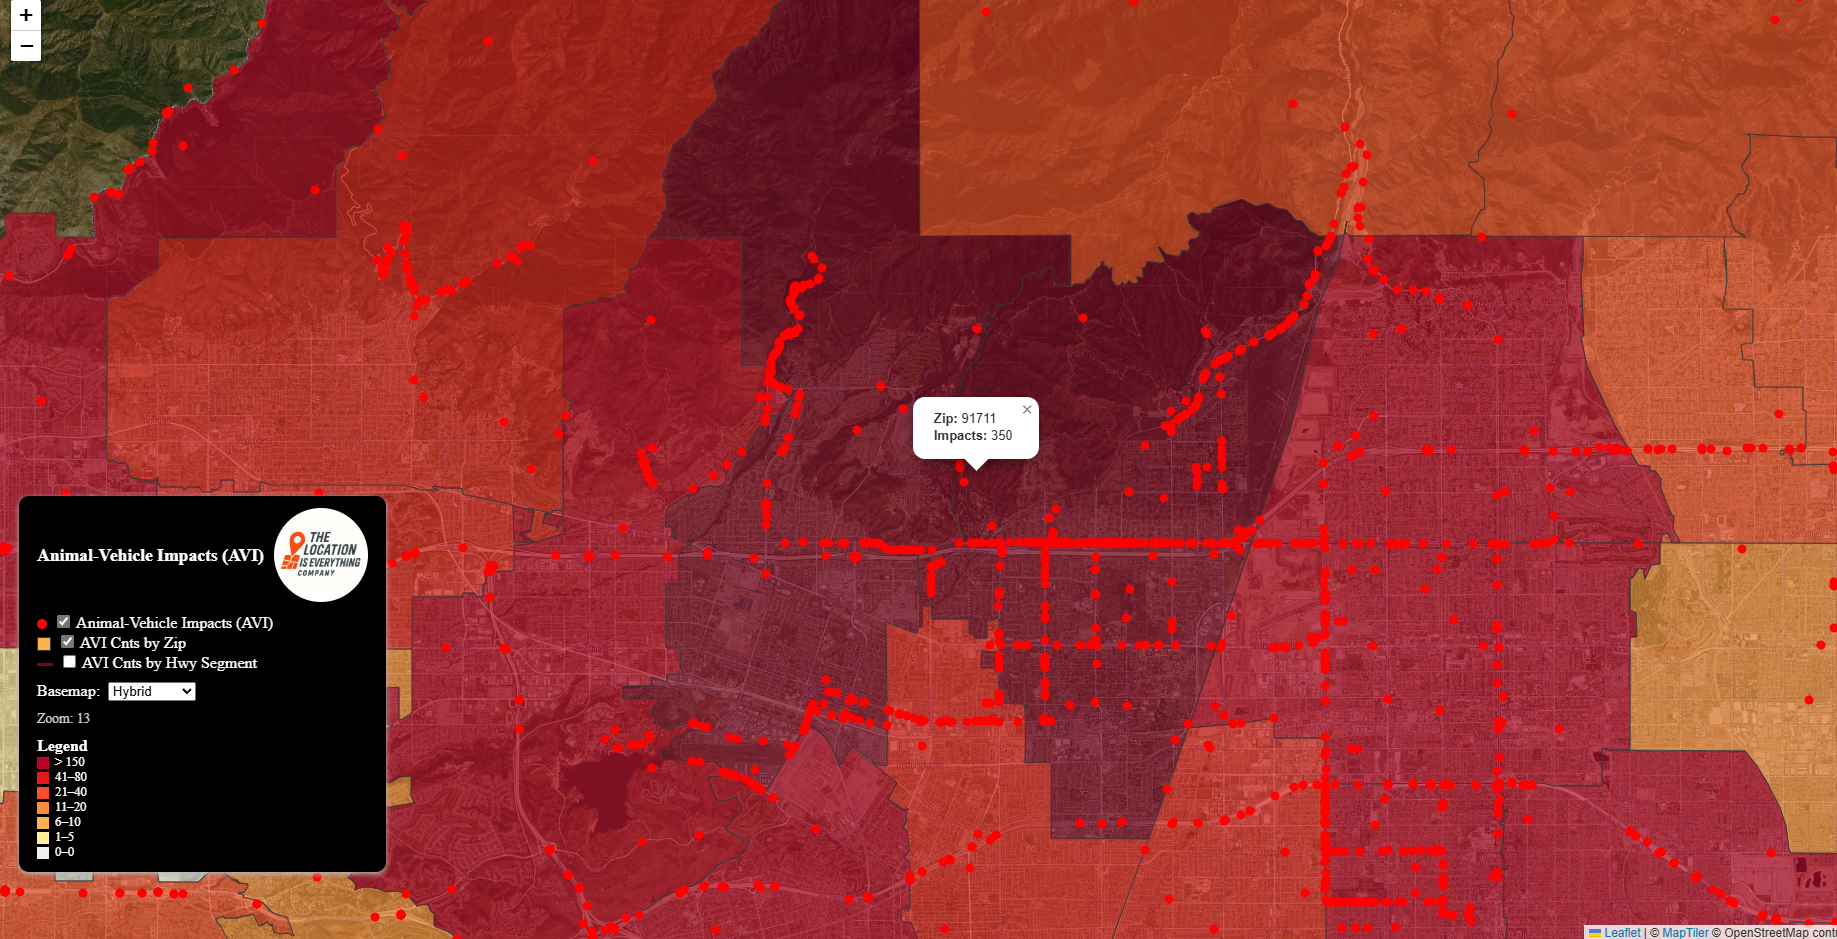
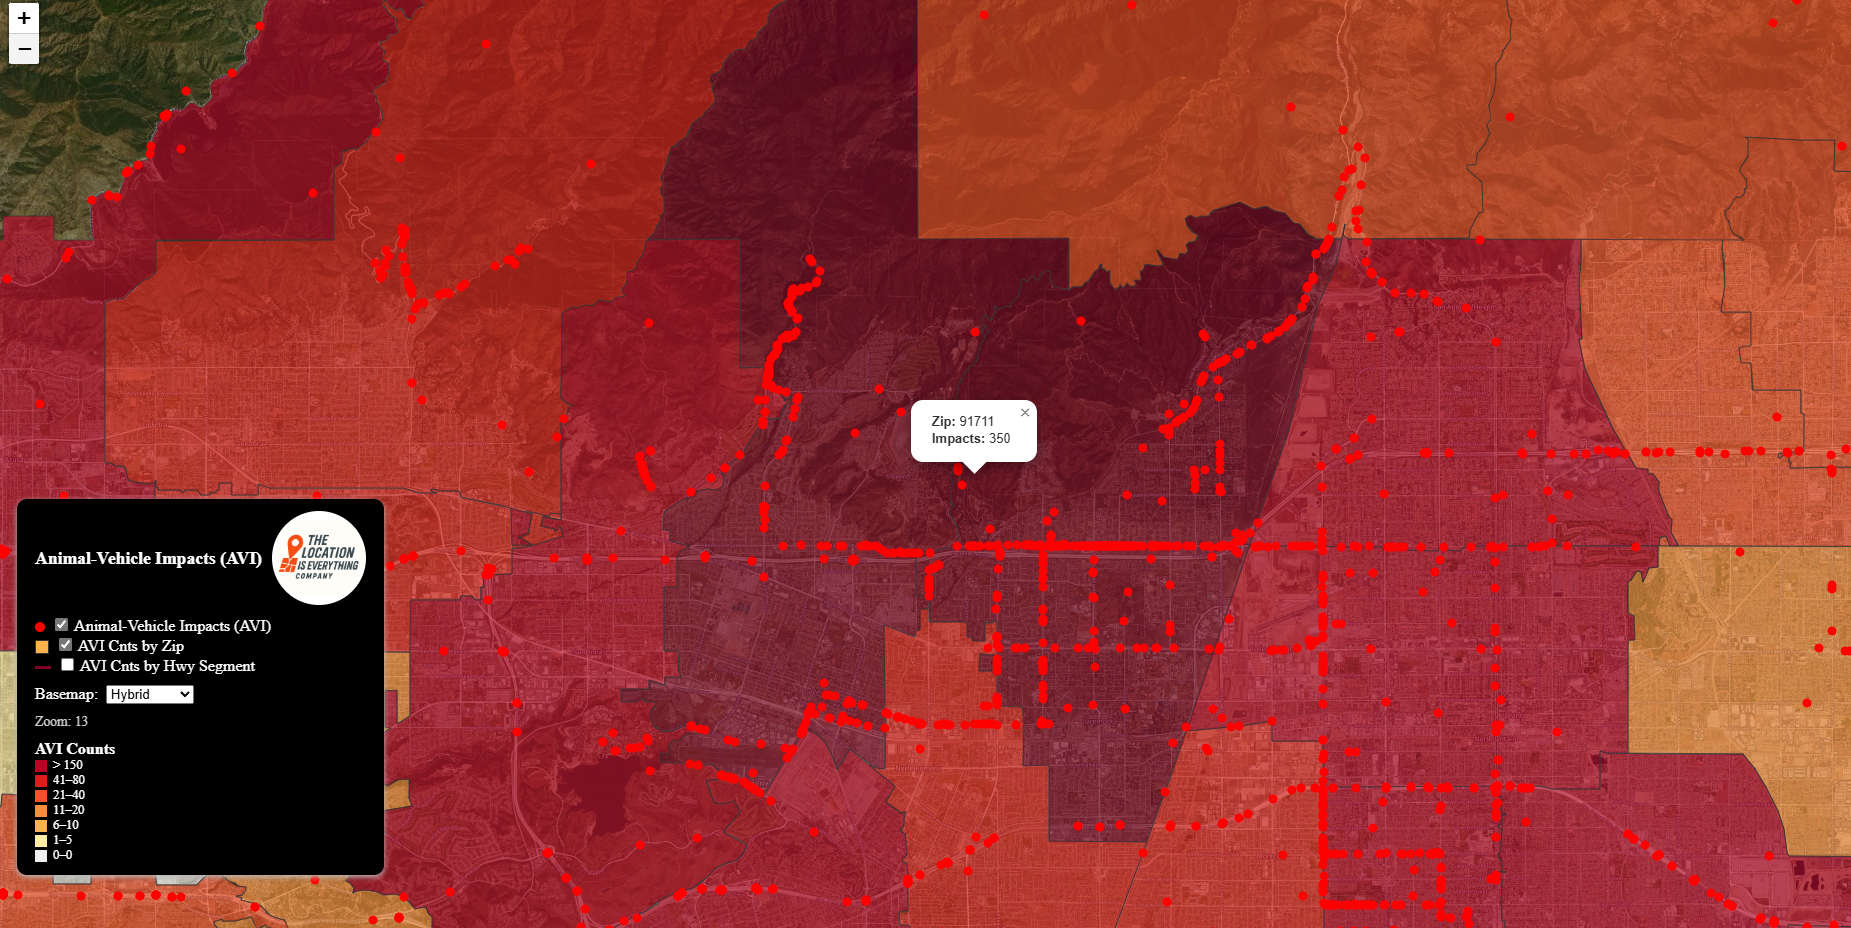
Add urban insights page

diff --git a/src/app/urban/page.tsx b/src/app/urban/page.tsx
@@ -1,4 +1,5 @@
 "use client";
+import Image from "next/image";
 import Link from "next/link";
 
 export default function UrbanInsightsPage() {
@@ -16,8 +17,10 @@ export default function UrbanInsightsPage() {
         Urban Insights Data Suite
       </h1>
       <p className="text-lg mb-8 text-center max-w-2xl">
-        Our Urban Insights Data Suite delivers actionable neighborhood-level intelligence for the largest US cities, built from 311 service calls and more. Stay tuned for our inital release of our Infrastructure Health Index for Neighborhoods!
+        Our Urban Insights Data Suite delivers actionable neighborhood-level intelligence for the largest US cities, built from 311 service calls and more. Stay tuned for our initial release of "Infrastructure Health Index for Neighborhoods"
       </p>
+      {/* You can add a sample image here if you have one, or a placeholder: */}
+     <img src="/logo.png" alt="Location Is Everything Logo" style={{ width: '250px', height: '250px', marginLeft: '10px', border: '2px solid white', borderRadius: '50%', backgroundColor: 'white', objectFit: 'contain' }} />
 
     </div>
   );

diff --git a/src/app/avi/page.tsx b/src/app/avi/page.tsx
@@ -17,13 +17,13 @@ export default function AVIPage() {
         Animal-Vehicle Impacts (AVI) Data Products
       </h1>
       <p className="text-lg mb-8 text-center max-w-2xl">
-        Explore our innovative data aggregation for animal-vehicle collisions. Stay tuned for a live demo app!
+        Explore our innovative Animal-Vehicle Impact (AVI) Data Products, state roll out beginning in late 2025.  Michigan, Iowa, Minnesota, Texas, California, Nebraska, Kansas, New York, South Dakota, Montana, Nevada, Arizona, New Mexico, Colorado, New Hampshire and Vermont.
       </p>
       <Image
-        src="/ca_crospts_zips_sample_4_good.png"
+        src="/avi_cnts_zip_page.png"
         alt="Sample Animal-Vehicle Collision Data"
         width={940}
-        height={740}
+        height={840}
         className="rounded-lg shadow-xl mx-auto"
         priority
       />
